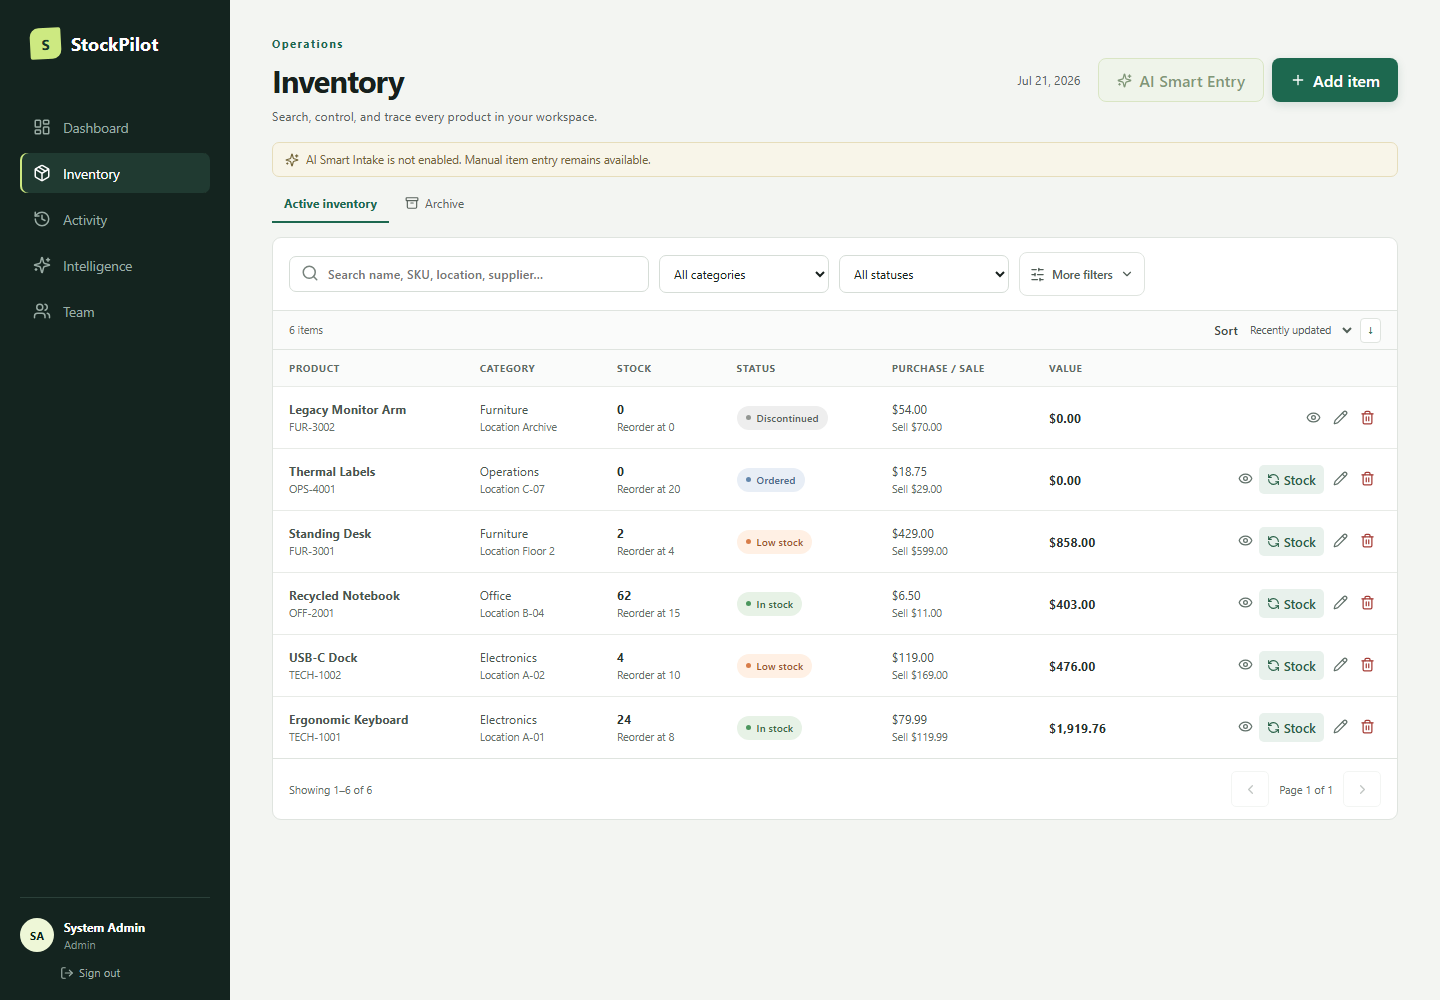
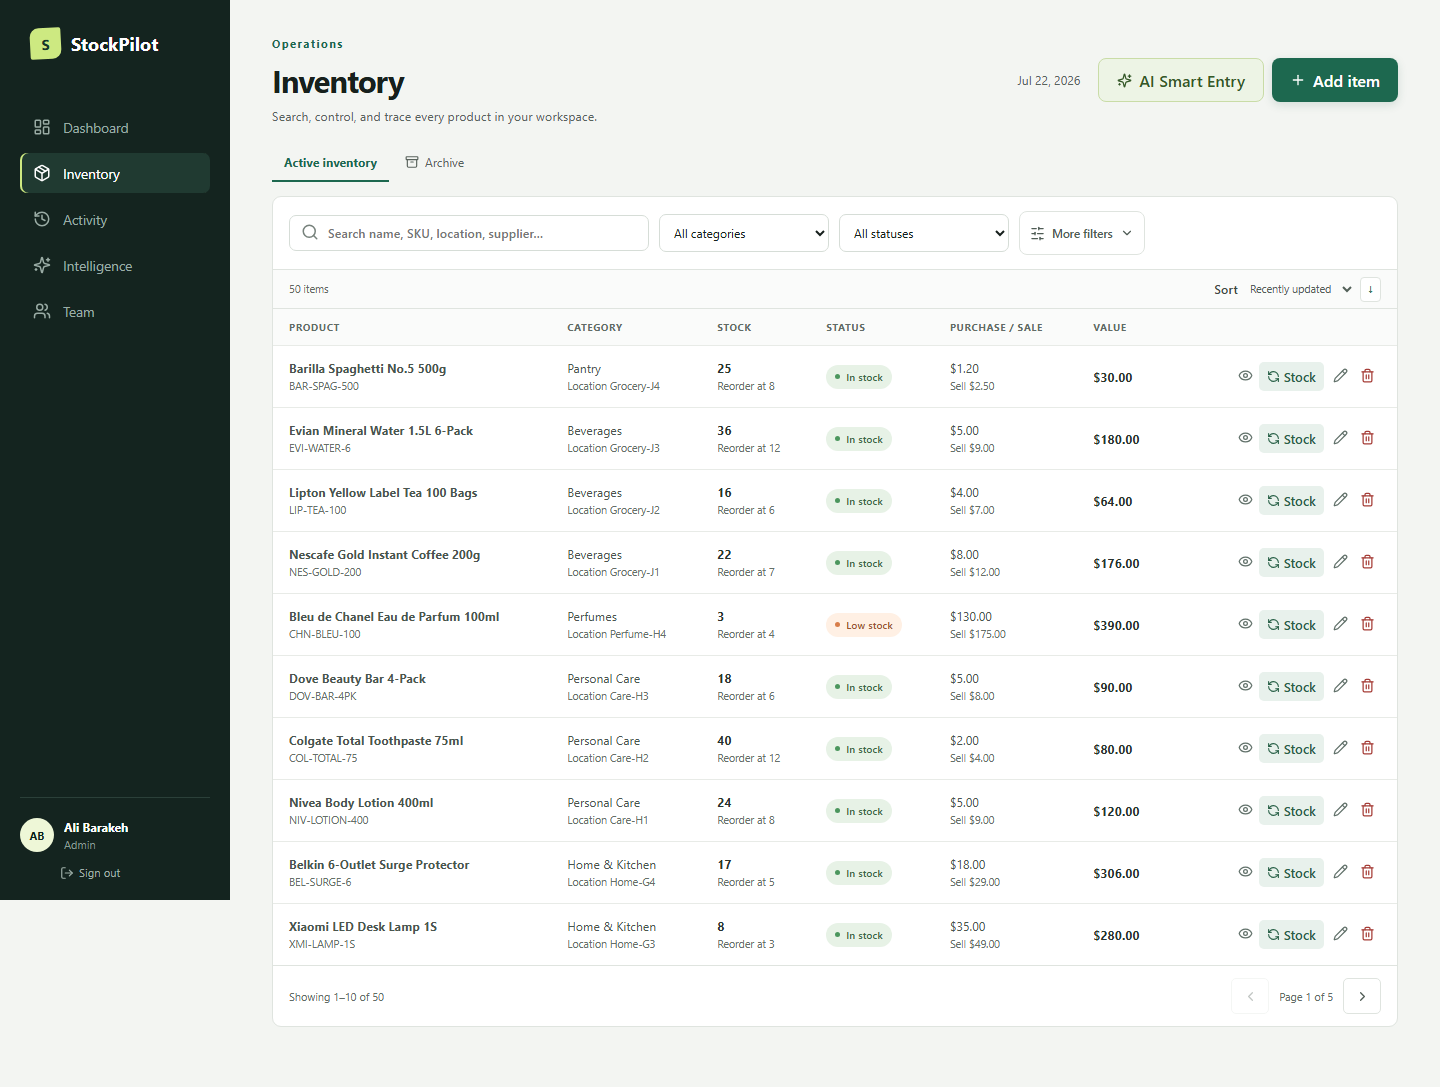
Polish repository for project submission

diff --git a/README.md b/README.md
@@ -162,9 +162,9 @@ npm run test:e2e:install # first run only
 npm run test:e2e
 ```
 
-The frontend check enforces formatting, zero-warning linting, application and E2E TypeScript, 26 unit/DOM tests, and a production build. The backend currently runs 52 tests and treats compiler and recommended analyzer warnings as errors.
+The frontend check enforces formatting, zero-warning linting, application and E2E TypeScript, the complete unit/DOM suite, and a production build. The backend test suite treats compiler and recommended analyzer warnings as errors.
 
-Eight Playwright workflows cover Manager creation, Viewer restrictions, stock adjustment and activity, status boundaries, AI draft review, automated WCAG A/AA checks, and mobile cards/overflow/touch targets. The E2E runner is Windows/LocalDB based and does not require Docker. It uses ports `5100` and `5175`, deletes only the explicitly named disposable `StockPilotE2E` database before and after the run, and never touches the normal `StockPilot` database. The AI browser scenario intercepts only the external extraction response; preview verification and the final explicit inventory save still use the real application API and SQL Server database.
+Playwright covers Manager creation, Viewer restrictions, Admin team-member removal, stock adjustment and activity, status boundaries, AI draft review, automated WCAG A/AA checks, and mobile cards/overflow/touch targets. The E2E runner is Windows/LocalDB based and does not require Docker. It uses ports `5100` and `5175`, deletes only the explicitly named disposable `StockPilotE2E` database before and after the run, and never touches the normal `StockPilot` database. The AI browser scenario intercepts only the external extraction response; preview verification and the final explicit inventory save still use the real application API and SQL Server database.
 
 GitHub Actions runs the backend/frontend/container pipeline on Ubuntu and the focused Chromium workflows on `windows-2022`, where SQL Server LocalDB is available, then uploads Playwright reports for diagnosis.
 
@@ -199,7 +199,10 @@ Smart Intake is a separate optional generative feature. It converts untrusted na
 | `GET` | `/api/ai/insights` | All roles |
 | `GET` | `/api/ai/inventory-draft/availability` | Admin, Manager |
 | `POST` | `/api/ai/inventory-draft` | Admin, Manager |
-| `GET`, `POST`, `PATCH` | `/api/users` | Admin |
+| `GET` | `/api/users` | Admin |
+| `POST` | `/api/users` | Admin |
+| `PATCH` | `/api/users/{id}/role` | Admin |
+| `DELETE` | `/api/users/{id}` | Admin |
 | `GET` | `/api/health` | Public |
 | `GET` | `/api/health/live` | Public |
 
@@ -217,7 +220,7 @@ It runs the compiled React and ASP.NET application on Azure App Service Free F1,
 
 Production exposes `/api/health/live` for process liveness and `/api/health` for database/schema readiness. Free App Service and free Azure SQL can cold-start after inactivity and do not provide a production uptime SLA, so this deployment is intended for evaluation and portfolio demonstrations.
 
-`render.yaml` and the root `Dockerfile` remain a portable Render/Docker deployment alternative. Docker is not required for local development.
+The root `Dockerfile` and `compose.yaml` provide a CI-validated portable container option. Docker is not required for local development or the Azure deployment.
 
 ## Current limitations
 